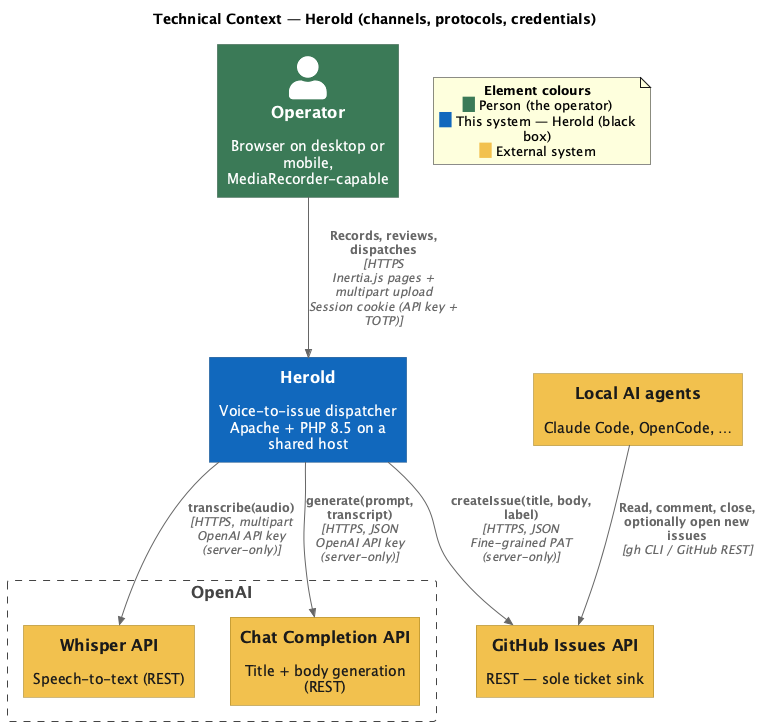
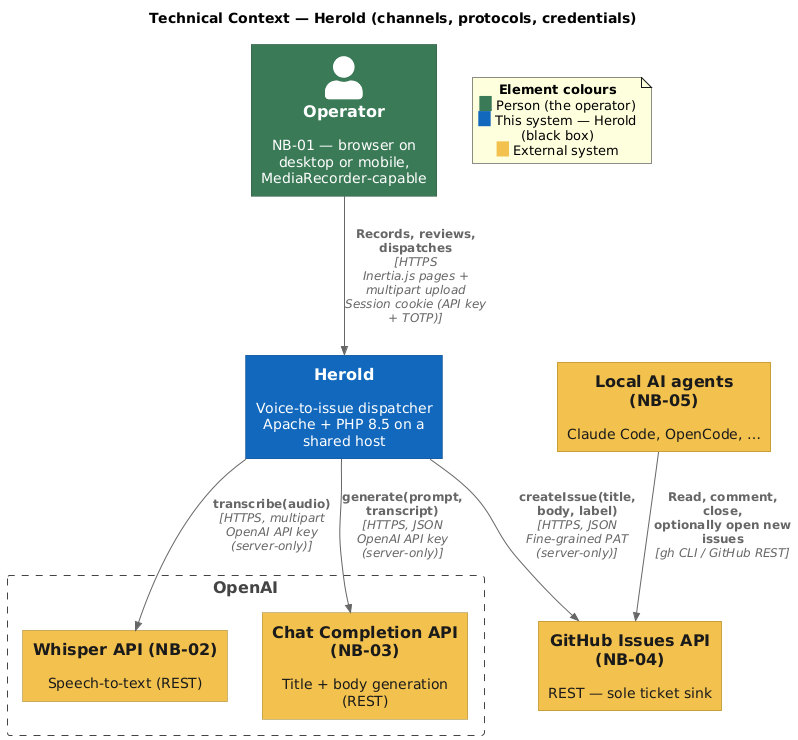
docs(arch): align building-block diagrams across refinement levels
Consistency pass over the building block view — every block now
matches its declaration one refinement level above:

- Add NB-01..NB-05 identifiers to the context diagram, the level-1
  externals, and the decomposition overview, so neighbour identity is
  traceable despite the spec name (Whisper API) vs. arch name
  (Transcription API) for NB-02
- Decomposition overview: add the missing NB-05 (Local AI agents) to
  the level-0 band, add the missing Web Edge -> Integration Adapters
  relation to the level-1 band, correct the Pages count (x10)
- UI Shell level-2 whitebox: add the grey "Web Edge (L1)" context box
  with the four real server contacts (Inertia visits, multipart
  upload, process/send posts, audio streaming) — it was the only
  level-2 diagram without its level-1 neighbours
- Level-1 block descriptions now name what level 2 actually contains:
  app.ts entry point + shared types (UI Shell), RedactSecrets
  (Log Redaction), database/migrations/ (Persistence)
- A03 channel table: the transcription model identifier is hard-coded
  in the adapter (risk R-07), not host-configured as stated

Claude-Session: https://claude.ai/code/session_01AcgU2eV5BWvKEpWMb3ocAg

diff --git a/docs/arch/A03-context-and-scope.md b/docs/arch/A03-context-and-scope.md
@@ -47,7 +47,7 @@ The same five neighbours, mapped to the concrete channels Herold uses to talk to
 |---------|-----------|---------|----------------|
 | Operator → Herold *(app shell / pages)* | HTTPS at the hosting edge | Inertia.js page payloads (JSON-over-HTML hydration) | Laravel session cookie, set after API key + TOTP verification (TECH-13) |
 | Operator → Herold *(audio upload)* | HTTPS, `multipart/form-data` | Browser-encoded audio blob from `MediaRecorder` | Same session as above; payload validated per [NFR-15a-03](../spec/N1-nichtfunktional.md#15a-access-requirements) |
-| Herold → OpenAI Whisper *(NB-02)* | HTTPS, `multipart/form-data` | Audio bytes + model identifier from host configuration | OpenAI API key from server-only env |
+| Herold → OpenAI Whisper *(NB-02)* | HTTPS, `multipart/form-data` | Audio bytes + model identifier (hard-coded in the adapter — risk [R-07](A11-risks-and-technical-debts.md#111-risks)) | OpenAI API key from server-only env |
 | Herold → OpenAI Chat *(NB-03)* | HTTPS, `application/json` | Per-type preprocessing prompt + transcript; optional extra-field schema | OpenAI API key (same credential as NB-02) |
 | Herold → GitHub Issues *(NB-04)* | HTTPS, `application/json` | Title, sanitised Markdown body, exactly one type label | Fine-grained GitHub PAT (`Issues: Read & Write`), server-only |
 | Local AI agents → GitHub | `gh` CLI / GitHub REST | Issue read, comment, close, possibly open new issues | Agent's own GitHub credentials — **not** a Herold channel |
